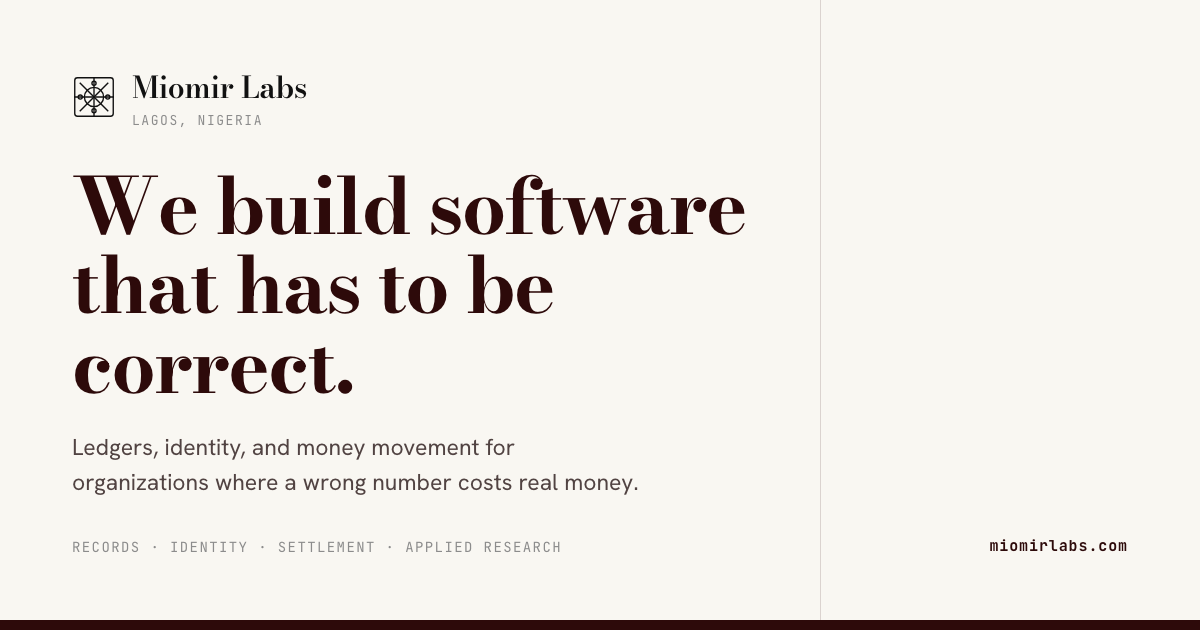
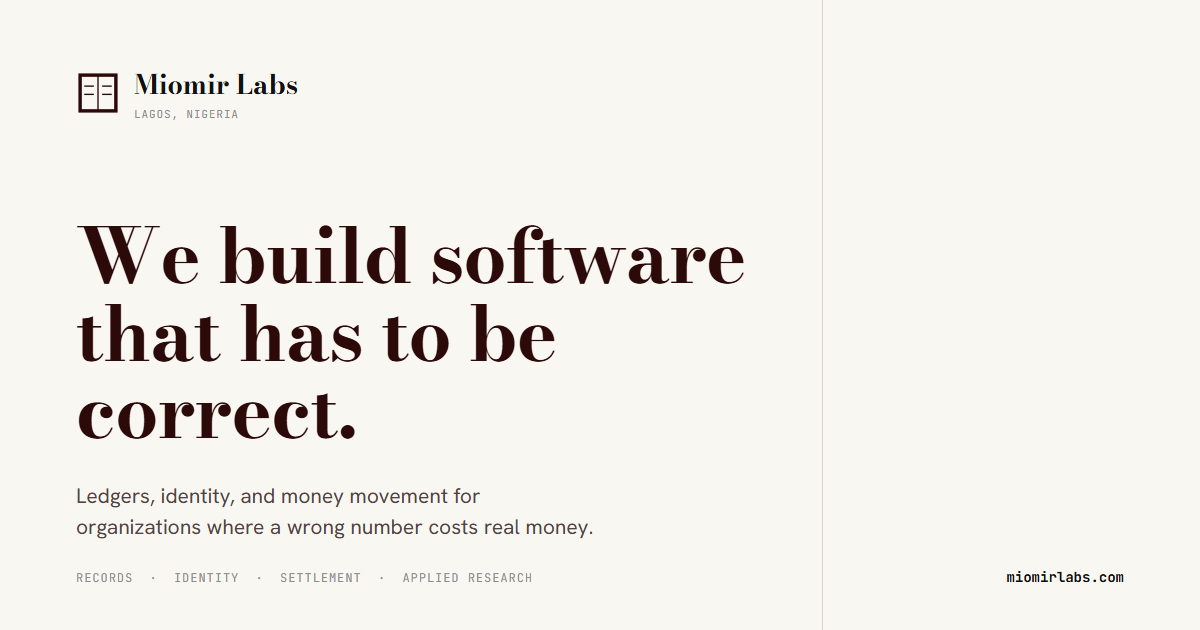
feat: make the brand mark the ledger itself
The shipped glyph was a generic precision gauge in a rounded square,
which broke the sharp-corner rule and referenced nothing in the brand.
The new mark is one frame divided into two columns with entry ticks —
the double-entry signature from the page, reduced to a favicon legible
at 16px. Applied to logo, favicons, touch icon, and the regenerated
social card.

Generated with [Devin](https://devin.ai)

diff --git a/DESIGN.md b/DESIGN.md
@@ -92,6 +92,10 @@ Navigation labels: Work, Enterprise, Approach, Notes, Team, Contact.
 
 The chosen direction is a restrained editorial/specimen aesthetic: bone ground, oxblood and ink accents, hairline rules, sharp corners, and a three-way type pairing. It is a Lagos engineering house, not a dark-terminal fantasy or a navy SaaS template.
 
+### Brand mark
+
+The mark is the ledger itself: one sharp-cornered frame divided into two columns, with entry ticks in each column — the double-entry signature reduced to its essence. Oxblood strokes only, no fills, sharp corners, legible at 16px. It replaced a generic precision-gauge placeholder on 2026-10-24. The same drawing serves as `logo.svg`, `favicon.svg` (heavier strokes for small sizes), `favicon.ico`, `apple-touch-icon.png`, and inside `og-image.png`.
+
 ### Palette
 
 | Token | Value | Use |
